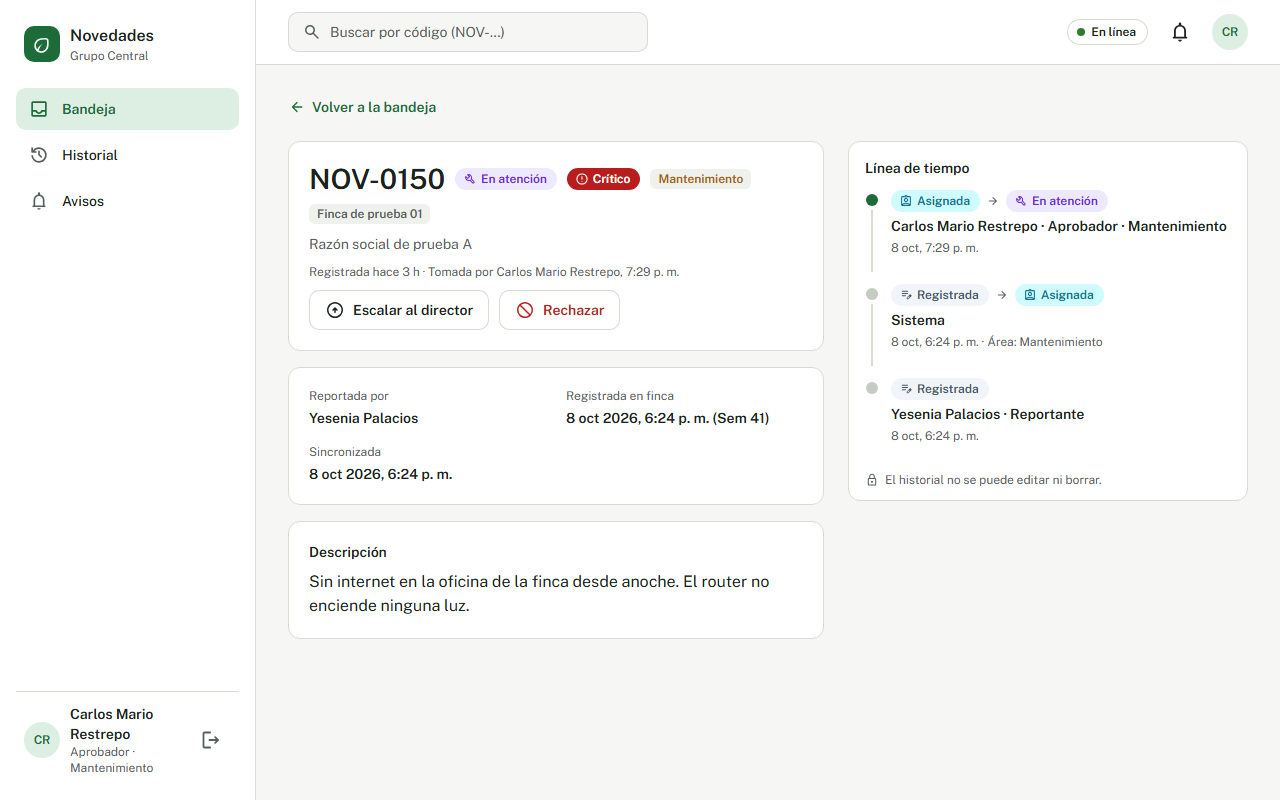
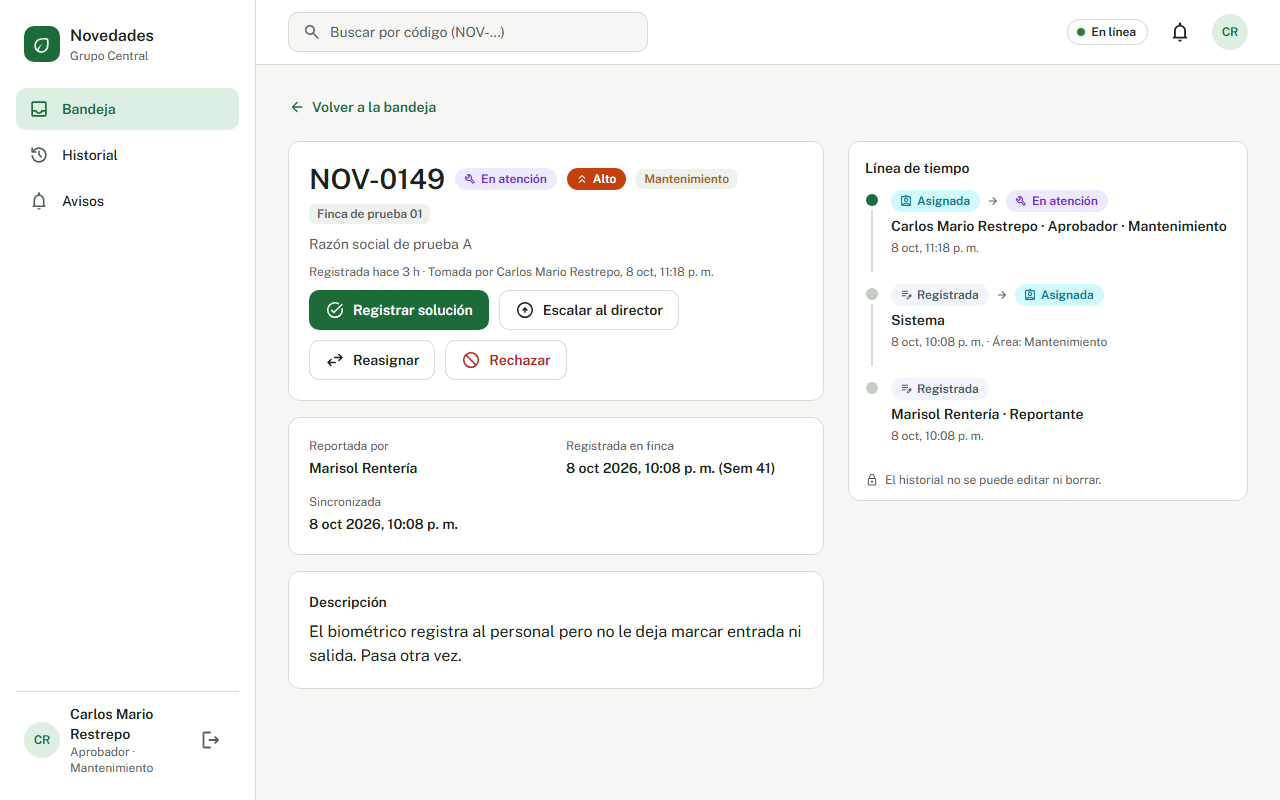
test(RF-14): e2e de CU-14, seed de tipos de falla, capturas y decisiones
- e2e/cu-14-registrar-solucion.spec.js: el aprobador toma una novedad y
  registra la solución con un tipo nuevo; queda resuelta, el reportante la
  ve por confirmar y el administrador recibe su aviso; el tipo ya se sugiere
  aunque se escriba distinto (CU-14 5a). CU-14 6a: sin datos o con la fecha
  de mañana no se registra (18-B).
- supabase/seed.sql: cuatro tipos de falla de prueba para el autocompletado.
  Falta un staging:reset para cargarlos; no se corrió.
- Capturas de 14 con la barra completa, 18, 18-B, 18-C y el detalle resuelto,
  a 360 × 800 y 1280 × 800.
- docs/cambios-sdd.md, punto 9: cadena de fusiones, «hoy» en Colombia y
  permisos de sugerir_tipos_falla.
- docs/decisiones-pendientes.md: puntos 10 y 11, y los puntos 24 (pantalla
  18) y 25 (tipos de prueba en «staging»).

diff --git a/e2e/cu-14-registrar-solucion.spec.js b/e2e/cu-14-registrar-solucion.spec.js
@@ -1,0 +1,197 @@
+import { expect, test } from '@playwright/test'
+import { registrarPorLaApi } from './apoyo/novedades.js'
+import { descripcionUnica } from './apoyo/registro.js'
+import {
+  HAY_CLAVE,
+  ingresarComo,
+  leerDeLaApi,
+  llamarALaApi,
+  MOTIVO_SIN_CLAVE,
+} from './apoyo/usuarios.js'
+
+/*
+ * CU-14 · Registrar solución aplicada (RF-14). Pantallas 18 (registrar solución y tipo de
+ * falla) y 18-B (fecha posterior a hoy).
+ *
+ * La pantalla 18-C (novedad aprobada por el director) se cubre con pruebas unitarias: hasta
+ * el Sprint 3 la aplicación no tiene cómo aprobar un escalamiento.
+ */
+
+const ESPERA_DE_SESION = { timeout: 20_000 }
+
+/** `AAAA-MM-DD` de hoy en Colombia más los días indicados. */
+function diaEnColombia(masDias = 0) {
+  const hoy = new Intl.DateTimeFormat('en-CA', { timeZone: 'America/Bogota' }).format(new Date())
+  const fecha = new Date(`${hoy}T12:00:00Z`)
+  fecha.setUTCDate(fecha.getUTCDate() + masDias)
+  return fecha.toISOString().slice(0, 10)
+}
+
+test.describe('CU-14 · Registrar solución aplicada', () => {
+  test.skip(!HAY_CLAVE, MOTIVO_SIN_CLAVE)
+
+  const sesionDe = async (browser, rol) => {
+    const contexto = await browser.newContext()
+    const page = await contexto.newPage()
+    await ingresarComo(page, rol)
+    return { contexto, page }
+  }
+
+  /** El reportante registra una novedad para Mantenimiento y cierra su sesión. */
+  async function registrar(browser, descripcion) {
+    const reportante = await sesionDe(browser, 'reportante')
+    const novedad = await registrarPorLaApi(reportante.page, {
+      descripcion,
+      prioridad: 'alto',
+      area: 'Mantenimiento',
+    })
+    await reportante.contexto.close()
+    return novedad
+  }
+
+  /** El aprobador abre el detalle, toma la novedad y pasa a la pantalla de la solución. */
+  async function abrirLaSolucion(page, novedad) {
+    await page.goto(`/novedades/${novedad.id}`)
+    await page.getByRole('button', { name: 'Tomar para atención' }).click(ESPERA_DE_SESION)
+    await page.getByRole('link', { name: 'Registrar solución' }).click()
+    await expect(page).toHaveURL(new RegExp(`/novedades/${novedad.id}/solucion$`))
+    await expect(page.getByRole('heading', { level: 1, name: 'Registrar solución' })).toBeVisible()
+  }
+
+  const estadoEnElDetalle = (page, estado) =>
+    page.getByRole('group', { name: 'Datos de la novedad' }).getByText(estado)
+
+  test('RF-14 / CU-14: el aprobador toma una novedad y registra la solución con un tipo de falla nuevo; queda Resuelta y la finca la ve por confirmar', async ({
+    browser,
+  }, testInfo) => {
+    const descripcion = descripcionUnica(testInfo, 'El biométrico no deja marcar la salida')
+    // Un tipo que no existe todavía: «staging» acumula los de otras corridas.
+    const tipo = `Tipo e2e ${testInfo.project.name} ${Date.now()}`
+    const solucion = 'Se actualizó el firmware del biométrico y se reinició el equipo.'
+    const novedad = await registrar(browser, descripcion)
+
+    const { contexto, page } = await sesionDe(browser, 'aprobador')
+    await abrirLaSolucion(page, novedad)
+
+    // CU-14 2: pide qué se hizo, la fecha (hoy, sin dejar pasar de hoy) y el tipo de falla.
+    const fecha = page.getByLabel(/^Fecha de ejecución/)
+    await expect(fecha).toHaveValue(diaEnColombia())
+    await expect(fecha).toHaveAttribute('max', diaEnColombia())
+    await page.getByRole('textbox', { name: '¿Qué se hizo?' }).fill(solucion)
+
+    // CU-14 3 a 5: escribe el tipo; como no existe, confirma uno nuevo.
+    await page.getByRole('combobox', { name: 'Tipo de falla' }).fill(tipo)
+    await page.getByRole('option', { name: `Crear tipo nuevo «${tipo}»` }).click()
+    const elegido = page.getByRole('group', { name: 'Tipo de falla' })
+    await expect(elegido.getByText(tipo)).toBeVisible()
+    await expect(elegido.getByText('Tipo nuevo', { exact: true })).toBeVisible()
+    await page.getByRole('button', { name: 'Marcar como resuelta' }).click()
+
+    // CU-14 6 y 7: vuelve al detalle, ya resuelta, con la solución y el tipo.
+    await expect(page).toHaveURL(new RegExp(`/novedades/${novedad.id}$`))
+    await expect(
+      page.getByText('Solución registrada. La finca debe confirmar el cierre.'),
+    ).toBeVisible()
+    await expect(estadoEnElDetalle(page, 'Resuelta')).toBeVisible()
+    await expect(page.getByText(solucion)).toBeVisible()
+    await expect(page.getByText(tipo).first()).toBeVisible()
+    await expect(page.getByRole('link', { name: 'Registrar solución' })).toHaveCount(0)
+    await expect(
+      page.getByRole('region', { name: 'Línea de tiempo' }).getByRole('listitem'),
+    ).toHaveCount(4)
+
+    // En la base quedó resuelta con sus tres datos y una transición sin observación.
+    const [vista] = await leerDeLaApi(
+      page,
+      `v_novedad?select=estado,solucion,fecha_ejecucion,tipo_falla&id=eq.${novedad.id}`,
+    )
+    expect(vista).toEqual({
+      estado: 'resuelta',
+      solucion,
+      fecha_ejecucion: diaEnColombia(),
+      tipo_falla: tipo,
+    })
+    const historial = await leerDeLaApi(
+      page,
+      `historial_transicion?select=estado_anterior,observacion&novedad_id=eq.${novedad.id}&estado_nuevo=eq.resuelta`,
+    )
+    expect(historial).toEqual([{ estado_anterior: 'en_atencion', observacion: null }])
+
+    // CU-14 5a: el tipo recién creado ya se sugiere, aunque se escriba en mayúsculas y con
+    // espacios de más, y es coincidencia exacta.
+    const sugerencias = await llamarALaApi(page, 'sugerir_tipos_falla', {
+      p_texto: `  ${tipo.toUpperCase()}  `,
+    })
+    expect(sugerencias).toEqual([
+      expect.objectContaining({ nombre: tipo, cantidad_novedades: 1, coincidencia_exacta: true }),
+    ])
+    await contexto.close()
+
+    // CU-14 8: el reportante tiene su aviso y ve la novedad en «Por confirmar».
+    const reportante = await sesionDe(browser, 'reportante')
+    const avisos = await leerDeLaApi(
+      reportante.page,
+      `notificacion?select=estado_nuevo&novedad_id=eq.${novedad.id}&order=creada_en.asc`,
+    )
+    expect(avisos).toEqual([{ estado_nuevo: 'en_atencion' }, { estado_nuevo: 'resuelta' }])
+    await reportante.page.goto('/novedades?lista=por_confirmar')
+    await expect(reportante.page.getByText(descripcion)).toBeVisible(ESPERA_DE_SESION)
+    await reportante.page.goto(`/novedades/${novedad.id}`)
+    await expect(estadoEnElDetalle(reportante.page, 'Resuelta')).toBeVisible(ESPERA_DE_SESION)
+    await expect(reportante.page.getByText(solucion)).toBeVisible()
+    await reportante.contexto.close()
+
+    // Y el administrador, el suyo, porque se creó un tipo de falla.
+    const administrador = await sesionDe(browser, 'administrador')
+    const avisosDelAdministrador = await leerDeLaApi(
+      administrador.page,
+      `notificacion?select=estado_nuevo,leida&novedad_id=eq.${novedad.id}`,
+    )
+    expect(avisosDelAdministrador).toEqual([{ estado_nuevo: 'resuelta', leida: false }])
+    await administrador.contexto.close()
+  })
+
+  test('RF-14 / CU-14 6a (18-B): con datos faltantes o con la fecha de mañana no se registra; lo señala y la novedad sigue en atención', async ({
+    browser,
+  }, testInfo) => {
+    const descripcion = descripcionUnica(testInfo, 'La bomba del lote 7 gotea')
+    // Este tipo no llega a crearse: la solución nunca se registra.
+    const tipo = `Tipo e2e sin crear ${testInfo.project.name} ${Date.now()}`
+    const novedad = await registrar(browser, descripcion)
+
+    const { contexto, page } = await sesionDe(browser, 'aprobador')
+    await abrirLaSolucion(page, novedad)
+    const marcar = page.getByRole('button', { name: 'Marcar como resuelta' })
+    const solucion = page.getByRole('textbox', { name: '¿Qué se hizo?' })
+    const fecha = page.getByLabel(/^Fecha de ejecución/)
+
+    // Sin datos: señala lo que falta y lleva el foco al primer campo.
+    await marcar.click()
+    await expect(page.getByText('Describe qué se hizo.')).toBeVisible()
+    await expect(page.getByText('Elige un tipo de falla o crea uno nuevo.')).toBeVisible()
+    await expect(solucion).toBeFocused()
+
+    // Con la fecha de mañana: pantalla 18-B.
+    await solucion.fill('Se cambió el empaque de la bomba.')
+    await page.getByRole('combobox', { name: 'Tipo de falla' }).fill(tipo)
+    await page.getByRole('option', { name: `Crear tipo nuevo «${tipo}»` }).click()
+    await fecha.fill(diaEnColombia(1))
+    await marcar.click()
+    await expect(
+      page.getByText(/^La fecha de ejecución no puede ser posterior a hoy \(/),
+    ).toBeVisible()
+    await expect(fecha).toHaveAttribute('aria-invalid', 'true')
+
+    // No se registró nada: sigue en atención, sin solución, y el tipo no se creó.
+    const [vista] = await leerDeLaApi(page, `v_novedad?select=estado,solucion&id=eq.${novedad.id}`)
+    expect(vista).toEqual({ estado: 'en_atencion', solucion: null })
+    expect(await llamarALaApi(page, 'sugerir_tipos_falla', { p_texto: tipo })).toEqual([])
+
+    // Al salir sin registrar, el detalle sigue ofreciendo la acción. En el teléfono se sale
+    // con «Cerrar»; en el escritorio, con «Cancelar».
+    await page.getByRole('link', { name: /^(Cerrar sin registrar la solución|Cancelar)$/ }).click()
+    await expect(page).toHaveURL(new RegExp(`/novedades/${novedad.id}$`))
+    await expect(page.getByRole('link', { name: 'Registrar solución' })).toBeVisible()
+    await contexto.close()
+  })
+})

diff --git a/docs/decisiones-pendientes.md b/docs/decisiones-pendientes.md
@@ -15,7 +15,7 @@ tomó la opción más conservadora y se dejó anotada para que Mateo y Juan la c
 | 8   | Versión de Node y de jsdom                 | jsdom 29, compatible con Node 24.14                                  | El equipo         |
 | 9   | Estados de interacción que Figma no dibuja | Solo el `hover` del botón primario                                   | El equipo (Figma) |
 | 10  | Textos que no están en Figma               | Redactados con tuteo; listados abajo                                 | El equipo         |
-| 11  | Peso de la ruta de ingreso                 | Medido: 185,7 KB de 200 KB                                           | El equipo         |
+| 11  | Peso de la ruta de ingreso                 | Medido: 186,1 KB de 200 KB                                           | El equipo         |
 | 12  | Borde del botón secundario                 | Se dejó el color de Figma                                            | El equipo (Figma) |
 | 13  | Detalles de las pantallas 04, 05 y 06      | Resueltos con el criterio más cercano a Figma; listados abajo        | El equipo (Figma) |
 | 14  | Pantallas 05 y 06 en el escritorio         | Dentro del marco del escritorio, en una columna centrada             | El equipo (Figma) |
@@ -28,6 +28,8 @@ tomó la opción más conservadora y se dejó anotada para que Mateo y Juan la c
 | 21  | Acciones del aprobador (13-B y 14-C)       | Resueltas con el criterio más cercano a Figma; listadas abajo        | El equipo (Figma) |
 | 22  | Hojas de las acciones (15, 16 y 17)        | Resueltas con el criterio más cercano a Figma; listadas abajo        | El equipo (Figma) |
 | 23  | Contraste del «Área actual» de la hoja 17  | Se dejó la opacidad de Figma; medido y con propuesta                 | El equipo (Figma) |
+| 24  | Detalles de la pantalla 18 (solución)      | Resueltos con el criterio más cercano a Figma; listados abajo        | El equipo (Figma) |
+| 25  | Tipos de falla de prueba en «staging»      | Agregados al seed; **falta** un `staging:reset` para cargarlos       | El equipo         |
 
 ## 1 · Lista oficial de fincas y razones sociales
 
@@ -166,6 +168,15 @@ Redactados en español de Colombia, con tuteo, para que los revisen:
   «Reasignando…» mientras se ejecuta; «No hay otra área activa.» si el catálogo no ofrece destino;
   «No pudimos cargar las áreas. Revisa tu conexión.», como en el registro; para los lectores de
   pantalla, «pasa a» entre el área actual y el destino.
+- **Registrar solución (Sprint 2):** los errores de cada campo («Describe qué se hizo.», «Indica la
+  fecha de ejecución.», «Elige un tipo de falla o crea uno nuevo.»; Figma solo escribe el de la
+  fecha posterior a hoy); el aviso «Solución registrada. La finca debe confirmar el cierre.»; el
+  botón dice «Guardando…» mientras se ejecuta; en el tipo de falla, «Escribe para buscar», «Elige
+  uno de la lista o crea uno nuevo.», «Tipo nuevo», «1 novedad» (Figma solo muestra el plural) y
+  «No pudimos buscar los tipos. Revisa tu conexión.»; para los lectores de pantalla, «Cerrar sin
+  registrar la solución», «Descripción de la novedad:», «Borrar lo escrito», «Cambiar el tipo de
+  falla», «Tipos de falla» (la lista) y el resultado de la búsqueda («2 tipos coinciden.», «Ningún
+  tipo coincide. Puedes crear uno nuevo.»).
 - **Mensajes de error de la Tabla 22:** el SDD da la idea de cada uno; la redacción exacta está en
   `src/core/errores/traducir.js`.
 
@@ -195,6 +206,10 @@ del aprobador, que pasa a 2,8 KB. Con «Escalar novedad» (RF-12) el total no ca
 ese paquete pasa a 3,5 KB. Con «Reasignar novedad» (RF-17) tampoco (185,7 KB); el paquete de las
 acciones queda en 5,0 KB, y la presentación de las áreas (1,2 KB), que comparte con el registro,
 tampoco entra en la ruta de ingreso.
+
+Con «Registrar solución» (RF-14), medido el 9 oct 2026: ≈ 186,1 KB (JavaScript 149,3 KB, CSS
+7,8 KB, fuente 26,8 KB y registro del service worker 2,2 KB). Quedan unos 13,9 KB. La pantalla 18
+va en su propio paquete (6,0 KB), que solo descarga el aprobador cuando la abre.
 
 **Riesgo:** el CSS es un solo archivo y crece con cada pantalla (4,2 KB en el Sprint 0; 6,2 KB
 ahora), y los componentes compartidos que usa el ingreso también suman. Hay que seguir midiéndolo
@@ -468,3 +483,50 @@ orden, la flecha y el texto «pasa a» para los lectores de pantalla dicen lo mi
 **Propuesta:** dejar la opacidad solo en el ícono y en el fondo de la tarjeta, y el texto con sus
 colores normales (`texto` y `texto-secundario` sobre `gris-100` pasan de 4,5:1). Es un cambio de
 una línea en `HojaReasignar.jsx`.
+
+## 24 · Detalles de la pantalla 18 (registrar solución, 18-B y 18-C)
+
+Lo que Figma no dibuja o deja abierto:
+
+- **Ruta propia.** La pantalla vive en `/novedades/:id/solucion`, sin las barras de navegación del
+  teléfono, como el registro. «Cerrar» vuelve al detalle. Si la novedad no admite la solución (no
+  está en atención ni aprobada, o es de otra área), la dirección lleva al detalle.
+- **En el escritorio** (decisión 4 del plan): una columna centrada dentro del marco, como el
+  registro, con el título en el contenido y «Cancelar» junto al botón.
+- **Fecha de ejecución** (decisión 16): es el campo de fecha del navegador, con hoy en Colombia por
+  defecto y como máximo. Por eso muestra la fecha como la escribe el dispositivo («09/10/2026») y
+  no «24 sep 2026», que es como la dibuja Figma. El mensaje de 18-B sí usa el formato de Figma.
+- **Contador en «¿Qué se hizo?»** (decisión 7): «0/500», aunque Figma no lo dibuja en este campo.
+- **Cuándo se valida.** «Marcar como resuelta» está siempre disponible; al pulsarlo se señala lo
+  que falta o la fecha que no puede ser, y el foco va al primer campo con error (CU-14 6a). La
+  misma pantalla resulta si el que rechaza la fecha es el servidor (`FECHA_INVALIDA`).
+- **Tipo de falla: hay que elegir.** No basta con escribir: se elige una sugerencia o «Crear tipo
+  nuevo». La lista va debajo del campo, como en Figma, y aparece desde la primera letra, después de
+  una espera de un cuarto de segundo. Enter elige la opción activa y nunca envía el formulario.
+- **«Crear tipo nuevo» deshabilitado** cuando hay una coincidencia exacta (CU-14 5a). El aviso «Ya
+  existe…» solo sale si lo escrito no es idéntico al nombre del tipo; si es idéntico, sobra.
+- **Tipo elegido.** Se muestra como en 18-C, con su cantidad de novedades (o «Tipo nuevo»), y con
+  un botón para cambiarlo, que Figma no dibuja.
+- **Nombre de un tipo nuevo.** El campo admite hasta 60 caracteres
+  (`TIPO_FALLA_NOMBRE_MAX_CARACTERES`); la base de datos no le pone máximo.
+- **18-C.** El recuadro muestra la última aprobación del director; si no dejó observación, va sin
+  las comillas. Hasta el Sprint 3 la aplicación no tiene cómo aprobar un escalamiento: está
+  cubierto con pruebas unitarias y con pgTAP, y su prueba de extremo a extremo queda para entonces.
+- **Después de registrar** (decisión 9): se vuelve al detalle, ya resuelto y sin acciones para el
+  aprobador, con el aviso «Solución registrada. La finca debe confirmar el cierre.». Si otra
+  persona cambió el estado antes, se vuelve al detalle con «La novedad cambió de estado.».
+- **Vista previa de la bandeja (12).** «Registrar solución» para una novedad en atención o aprobada;
+  «Tomar para atención» para una asignada.
+
+## 25 · Tipos de falla de prueba en «staging»
+
+`supabase/seed.sql` trae ahora cuatro tipos de falla de prueba («Biométrico», «Puentes y pasos»,
+«Torniquetes» y «Red e internet»), creados por el administrador de prueba, para que el
+autocompletado de la pantalla 18 tenga qué sugerir. El seed solo se carga con `npm run
+staging:reset`, que borra los datos de «staging»: **no se corrió**, a la espera de que el equipo lo
+autorice. Mientras tanto «staging» no tiene esos cuatro tipos, pero la pantalla funciona igual:
+quien registra una solución crea el tipo que necesite.
+
+Las pruebas de extremo a extremo de CU-14 crean en cada corrida un tipo con nombre único («Tipo e2e
+…») y generan un aviso para los administradores; se acumulan en «staging» hasta el siguiente
+`staging:reset`.

diff --git a/docs/cambios-sdd.md b/docs/cambios-sdd.md
@@ -14,6 +14,7 @@ actualicen los documentos (lo exige la Definition of Done).
 | 6   | S2     | SDD 5.3.2, Tabla 21                         | Precisión: parámetros opcionales de `registrar_solucion` y columnas de salida de `sugerir_tipos_falla`                 | Propuesto |
 | 7   | S2     | SDD 6.1.3 (algoritmo general)               | Precisión: el rol que no corresponde a la acción recibe `SIN_PERMISO`, como en la Tabla 22, y no `TRANSICION_INVALIDA` | Propuesto |
 | 8   | S2     | SDD 6.1.3 (Tabla 30) y 7.3 (parámetros)     | Complemento: el motivo, la justificación y la solución admiten máximo 500 caracteres                                   | Propuesto |
+| 9   | S2     | SDD 6.1.8 y 6.1.3 (Tabla 30)                | Precisión: cadena de fusiones, «hoy» en la hora de Colombia y permisos de `sugerir_tipos_falla`                        | Propuesto |
 
 ## 1 · Service worker sin librerías de Workbox (S0)
 
@@ -169,3 +170,45 @@ del Sprint 2), igual al de la descripción de la novedad:
 **Texto propuesto (parámetros configurables):**
 
 > Longitud máxima del motivo, la justificación, la observación y la solución: 500 caracteres.
+
+## 9 · Tipos de falla y fecha de ejecución: lo que el SDD deja abierto (S2)
+
+**Sección:** SDD 6.1.8 (algoritmo `resolver_tipo` y sugerencias) y 6.1.3, Tabla 30 (fila
+`registrar_solucion`).
+
+**Qué pasa.** Al implementar `registrar_solucion` y `sugerir_tipos_falla` hubo que precisar cuatro
+cosas que el SDD no fija. Ninguna cambia el diseño.
+
+1. **Cadena de fusiones** (decisión 21 del plan). El algoritmo dice que, si el nombre corresponde a
+   un tipo fusionado, se usa el destino de la última fusión. Ese destino pudo fusionarse después en
+   otro tipo: se sigue la cadena hasta llegar a un tipo activo. Si la cadena termina en un tipo
+   desactivado, responde `TIPO_FALLA_INVALIDO`.
+2. **«Hoy» es el día en Colombia.** La Tabla 30 pide que la fecha de ejecución no sea posterior a la
+   actual. El servidor está en UTC: después de las 7 p. m. en Colombia su fecha ya es la de mañana y
+   dejaría pasar una fecha futura. La función compara contra la fecha de `America/Bogota`, y el
+   cliente calcula su «hoy» de la misma manera.
+3. **Permisos de `sugerir_tipos_falla`** (decisión 6 del plan). Es `security definer` y verifica que
+   quien la llama sea un aprobador o un administrador activo (si no, `SIN_PERMISO`). Así la cantidad
+   de novedades de cada tipo es la de todo el sistema, que es lo que orienta hacia el tipo más
+   usado; con los permisos de quien consulta, un aprobador solo contaría las de su área. Sin texto
+   devuelve los ocho tipos más usados.
+4. **Orden de las guardas de `registrar_solucion`.** Primero lo que falta (`DATO_OBLIGATORIO`:
+   solución, fecha o tipo), después la fecha (`FECHA_INVALIDA`) y por último el tipo
+   (`TIPO_FALLA_INVALIDO`), de modo que un intento con datos inválidos no llega a crear un tipo.
+
+**Texto propuesto (6.1.8, en `resolver_tipo`):**
+
+> SI t existe Y fue fusionado: RETORNAR el destino de su última fusión; si ese destino también fue
+> fusionado, se sigue la cadena hasta un tipo activo; si termina en un tipo desactivado, ERROR
+> TIPO_FALLA_INVALIDO
+
+**Texto propuesto (6.1.8, sugerencias):**
+
+> La función se ejecuta con los privilegios de su propietario y verifica que el usuario sea un
+> aprobador de área o un administrador activo. La cantidad de novedades de cada tipo es la de todas
+> las áreas. Sin texto, devuelve los ocho tipos más usados.
+
+**Texto propuesto (Tabla 30, validaciones de `registrar_solucion`):**
+
+> Solución no vacía; fecha de ejecución no posterior a la fecha actual en Colombia
+> (America/Bogota); tipo existente activo o nombre nuevo normalizado sin duplicado (sección 6.1.8)
